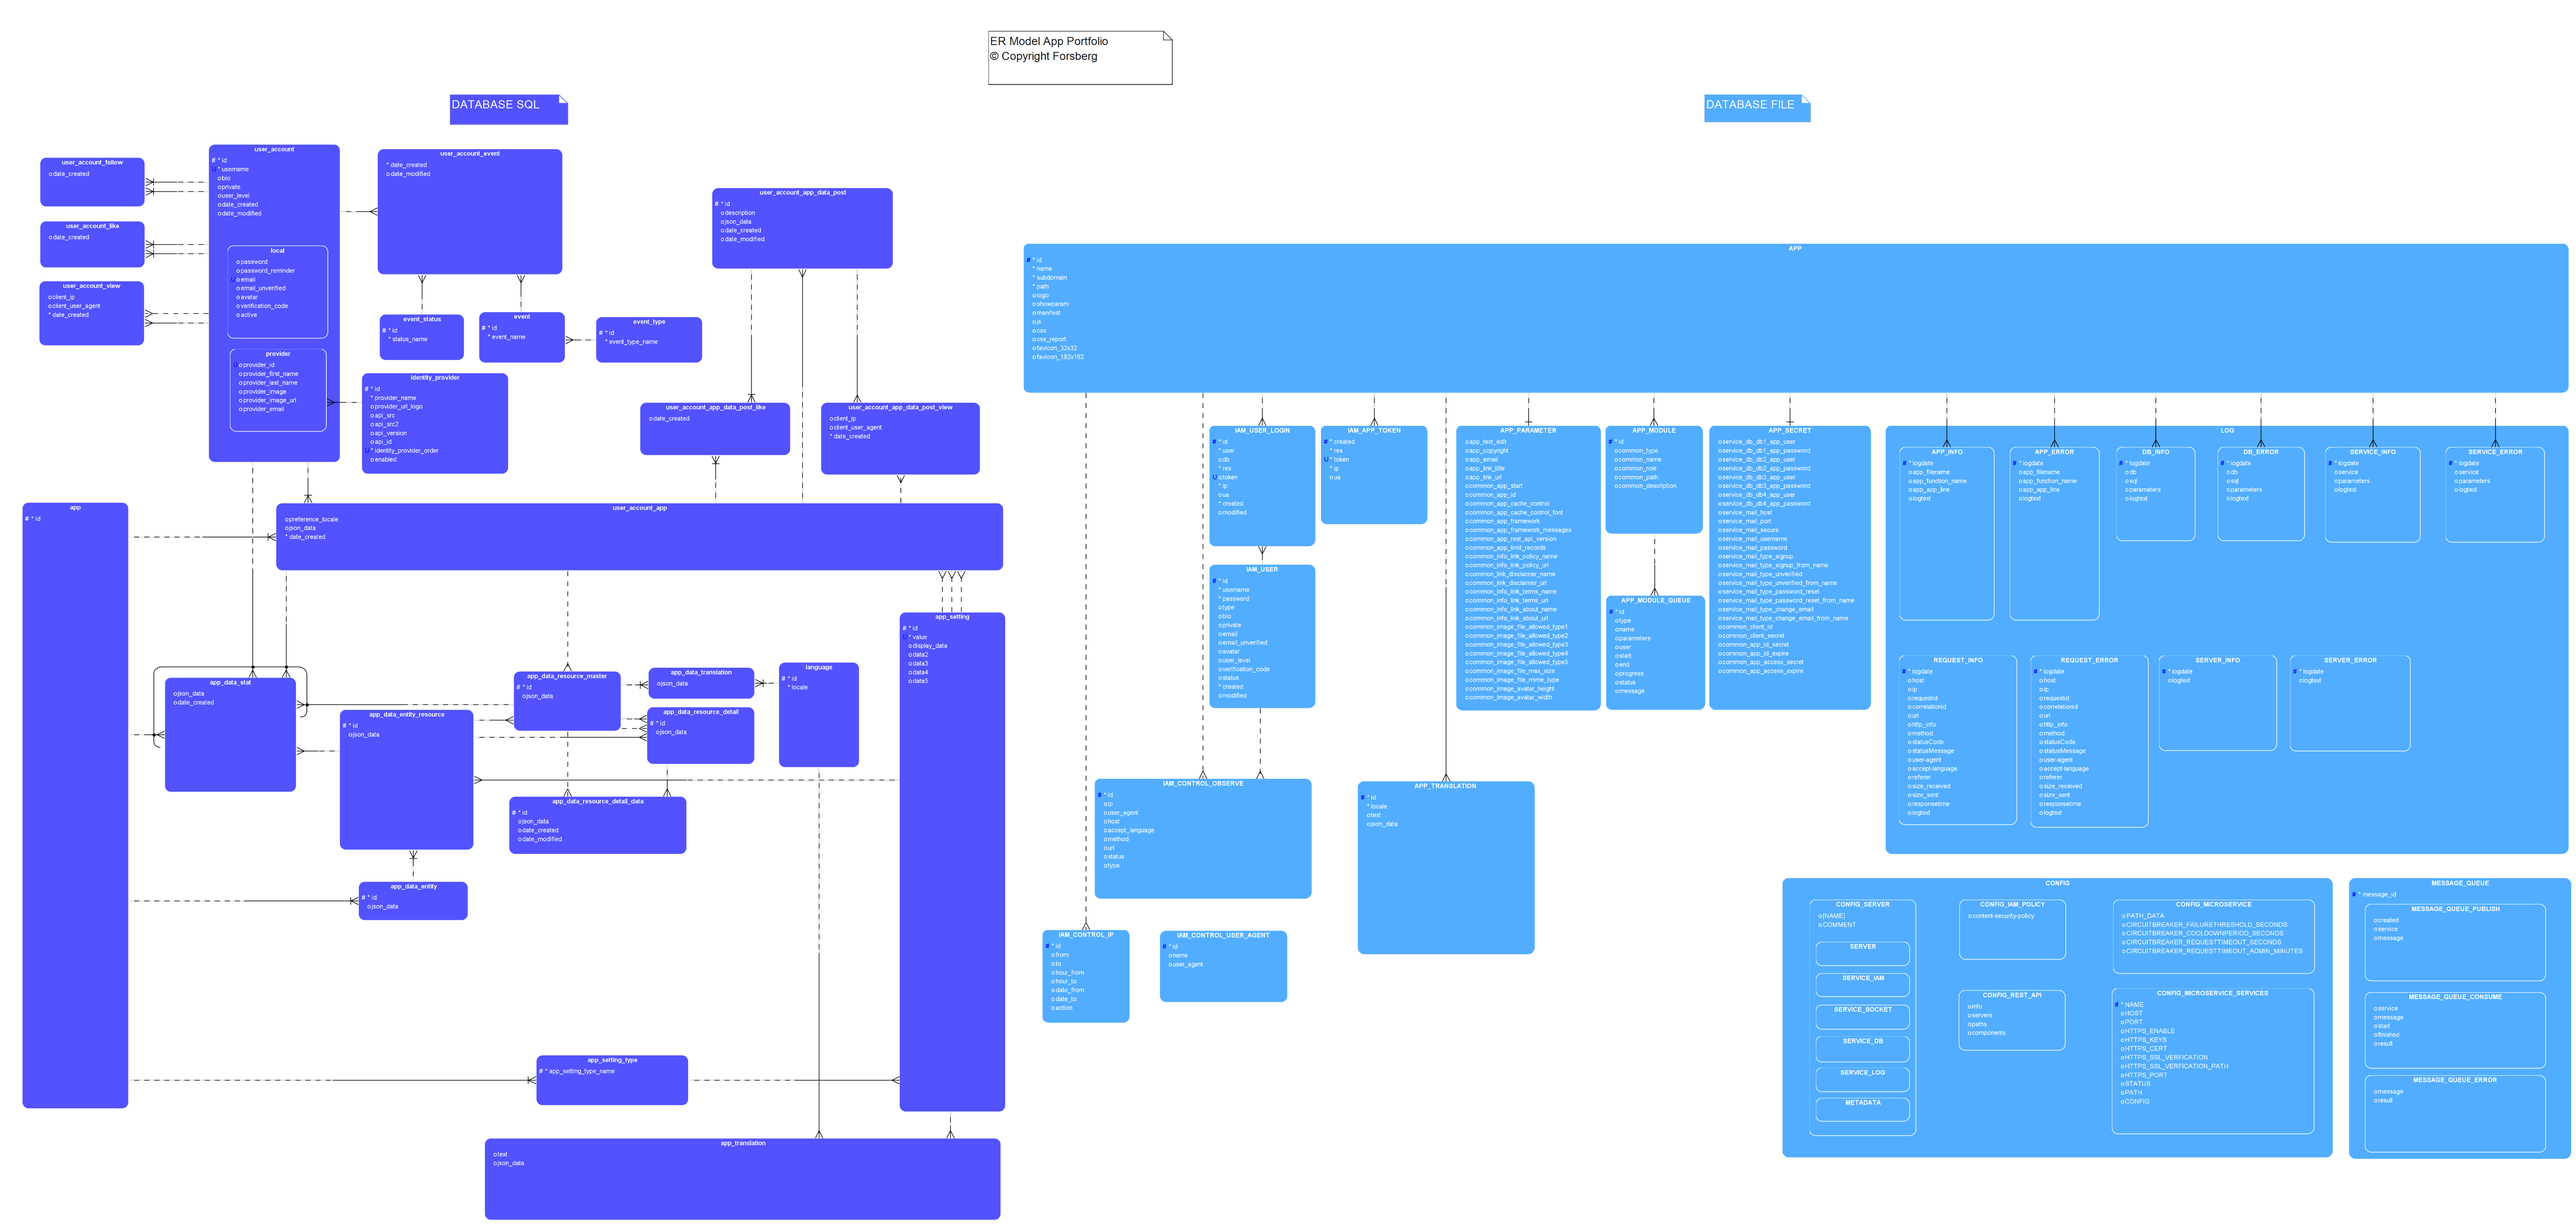
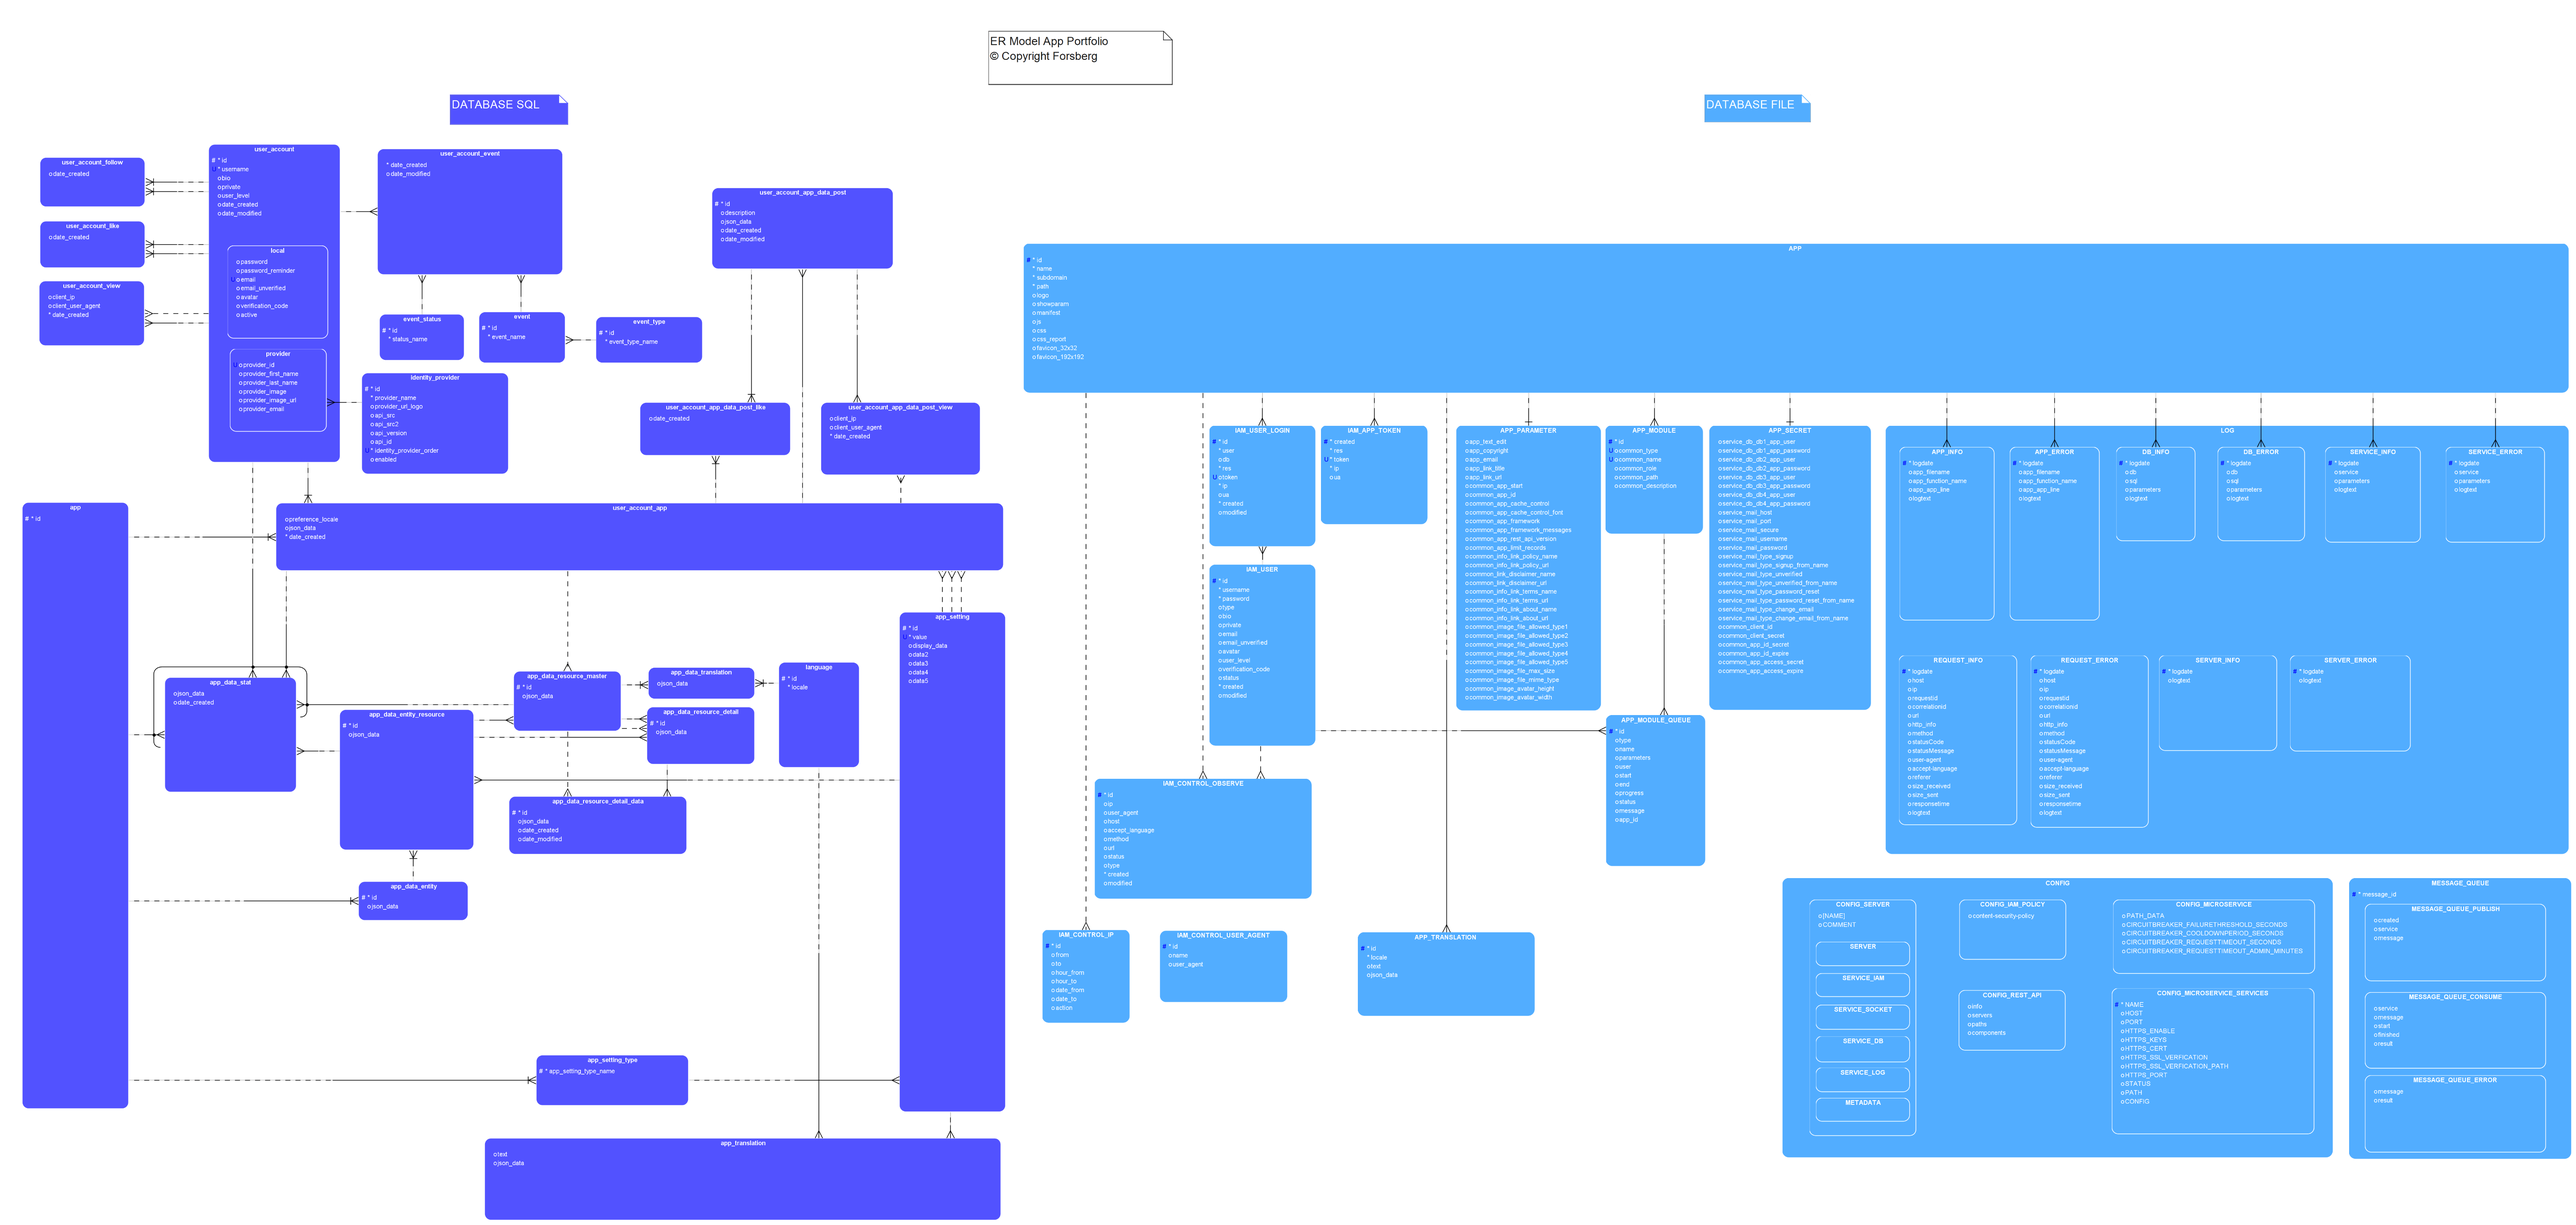
APB-1040 adds created and modified in iam_control_observe table and uses these in fileModelIamControlObserve.js, adds app_module_id (FK), iam_user_id(FK) and app_id(not FK) in app_module_queue table and in fileModelAppModuleQueue.js, adds APP_MODULE_UK with common_type and common_name as unique key 

Changed region(s): [[0.5296, 0.4673, 0.6854, 0.8411], [0.4673, 0.5607, 0.5296, 0.623]]

diff --git a/apps/common/src/common.js b/apps/common/src/common.js
@@ -6,6 +6,7 @@
  *          server_db_file_app_module,
  *          server_db_file_app_parameter_common,
  *          server_db_file_app_translation,
+ *          server_db_file_iam_user,
  *          server_config_apps_with_db_columns,
  *          server_apps_report_create_parameters,
  *          server_apps_app_service_parameters,
@@ -711,8 +712,8 @@ const commonAppReport = async parameters => {
  * @description Runs report in queue
  * @function
  * @memberof ROUTE_REST_API
- * @param {{app_id:Number,
- *          resource_id:string,
+ * @param {{app_id:number,
+ *          resource_id:number,
  *          authorization:string,
  *          data:{  ps:'A4', 
  *                  report_parameters:string},
@@ -732,40 +733,62 @@ const commonAppReportQueue = async parameters =>{
 
     /**@type{import('../../../server/iam.js')} */
     const { iamUtilDecode } = await import(`file://${process.cwd()}/server/iam.js`);
-                   
-    const result_post = await fileModelAppModuleQueue.post(parameters.app_id, 
-                                                    {
-                                                    type:'REPORT',
-                                                    name:parameters.resource_id,
-                                                    parameters:`ps:${parameters.data.ps}, report:${parameters.data.report_parameters}`,
-                                                    status:'PENDING',
-                                                    user:fileModelIamUser.get(  parameters.app_id, 
-                                                        serverUtilNumberValue(iamUtilDecode(parameters.authorization).id)).result[0].username
-                                                    });
-    if (result_post.result){
-        await fileModelAppModuleQueue.update(parameters.app_id, result_post.result.insertId, { start:new Date().toISOString(),
-                                                                progress:0, 
-                                                                status:'RUNNING'});
-        //report can update progress and only progress if necessary
-        //add queue id and parameters from parameter from origin
-        commonAppReport({   app_id:             parameters.app_id,
-                            resource_id:        parameters.resource_id,
-                            data:               {type:'REPORT', 
-                                                    ...{ps:parameters.data.ps}, 
-                                                    ...{queue_parameters:{appModuleQueueId:result_post.result.insertId,
-                                                                            ...Object.fromEntries(Array.from(new URLSearchParams(parameters.data.report_parameters)).map(param=>[param[0],param[1]]))}
-                                                        }
-                                                },
-                            user_agent:         parameters.user_agent,
-                            ip:                 parameters.ip,
-                            locale:             parameters.locale,
-                            endpoint:           parameters.endpoint});
-        //do not wait for submitted report
-        return {result:null, type:'JSON'};
+    /**@type{import('../../../server/iam.js')} */
+    const {iamUtilMessageNotAuthorized} = await import(`file://${process.cwd()}/server/iam.js`);
+
+    const report = fileModelAppModule.get({app_id:parameters.app_id, resource_id:parameters.resource_id, data:{data_app_id:null}});
+    if (report.result){
+        /**@type{server_db_file_iam_user} */
+        const user = fileModelIamUser.get(  parameters.app_id, serverUtilNumberValue(iamUtilDecode(parameters.authorization).id)).result[0];
+        const result_post = await fileModelAppModuleQueue.post(parameters.app_id, 
+                                                            {
+                                                            type:'REPORT',
+                                                            iam_user_id:user.id,
+                                                            app_module_id:parameters.resource_id,
+                                                            name:report.result[0].common_name,
+                                                            parameters:`ps:${parameters.data.ps}, report:${parameters.data.report_parameters}`,
+                                                            status:'PENDING',
+                                                            user:user.username
+                                                            });
+        if (result_post.result){
+            await fileModelAppModuleQueue.update(parameters.app_id, result_post.result.insertId, { start:new Date().toISOString(),
+                                                                    progress:0, 
+                                                                    status:'RUNNING'});
+            //report can update progress and only progress if necessary
+            //add queue id and parameters from parameter from origin
+            commonAppReport({   app_id:             parameters.app_id,
+                                resource_id:        report.result[0].common_name,
+                                data:               {type:'REPORT', 
+                                                        ...{ps:parameters.data.ps}, 
+                                                        ...{queue_parameters:{appModuleQueueId:result_post.result.insertId,
+                                                                                ...Object.fromEntries(Array.from(new URLSearchParams(parameters.data.report_parameters)).map(param=>[param[0],param[1]]))}
+                                                            }
+                                                    },
+                                user_agent:         parameters.user_agent,
+                                ip:                 parameters.ip,
+                                locale:             parameters.locale,
+                                endpoint:           parameters.endpoint});
+            //do not wait for submitted report
+            return {result:null, type:'JSON'};
+        }
+        else
+            return result_post;
     }
     else
-        return result_post;
-    
+        return fileModelLog.postAppE(   parameters.app_id, 
+                                        serverUtilAppFilename(import.meta.url), 
+                                        'commonAppReportQueue',
+                                        serverUtilAppLine(), 
+                                        `Module ${parameters.resource_id} not found`)
+                .then((result)=>{          
+                    return result.http?result:{http:404,
+                        code:'APP',
+                        text:iamUtilMessageNotAuthorized(),
+                        developerText:'commonAppReportQueue',
+                        moreInfo:null,
+                        type:'JSON'
+                    };
+                });
 };
 
 /**

diff --git a/server/db/fileModelAppModuleQueue.js b/server/db/fileModelAppModuleQueue.js
@@ -55,6 +55,8 @@ const getResult = async parameters => {
  * @function
  * @param {number} app_id 
  * @param {{type:'REPORT',
+ *          app_module_id:number,
+ *          iam_user_id:number,
  *          name:string,
  *          parameters:string,
  *          status:server_db_file_app_module_queue_status
@@ -67,11 +69,13 @@ const post = async (app_id, data) => {
         /**@type{server_db_file_app_module_queue} */
         const job =     {
                             id:Date.now(),
-                            app_id:app_id,                            
-                            type: data.type, 
-                            name:data.name,
+                            app_id:app_id,                      //copied from app
+                            app_module_id:data.app_module_id,   //FK app_module
+                            iam_user_id:data.iam_user_id,       //FK iam_user
+                            type: data.type,                    //copied from app_module
+                            name:data.name,                     //copied from app_module
                             parameters:data.parameters,
-                            user: data.user,
+                            user: data.user,                    //copied from iam_user
                             start:null,
                             end:null,
                             progress:null,
@@ -118,7 +122,7 @@ const postResult = async (app_id, id, result) =>{
  */
 const update = async (app_id, resource_id, data) => {
     const data_update = {};
-    //allowed parameters to update:
+    //allowed parameters to update (not alloewd to update user info or module info):
     if (data.start!=null)
         data_update.start = data.start;
     if (data.end!=null)

diff --git a/server/db/fileModelIamControlObserve.js b/server/db/fileModelIamControlObserve.js
@@ -51,7 +51,8 @@ const post = async (app_id, data) => {
                                                             method:data.method,
                                                             url:data.url,
                                                             status:data.status,
-                                                            type:data.type}).then((result)=>{
+                                                            type:data.type,
+                                                            created:new Date().toISOString()}).then((result)=>{
             if (result.affectedRows>0){
                 result.insertId = id;
                 return {result:result,type:'JSON'};
@@ -93,6 +94,7 @@ const update = async (app_id, resource_id, data) => {
             if (data.url!=null)
                 data_update.url = data.url;
             data_update.status = data.status;
+            data_update.modified = new Date().toISOString();
             //id and type not allowed to update
             if (Object.entries(data_update).length>0)
                 return fileDBUpdate(app_id, 'IAM_CONTROL_OBSERVE', resource_id, null, data_update).then((result)=>{

diff --git a/apps/admin/public/component/menu_report.js b/apps/admin/public/component/menu_report.js
@@ -65,8 +65,8 @@ const component = async props => {
         const parameters = Array.from(props.methods.COMMON_DOCUMENT.querySelectorAll('.menu_report_metadata_row')).map((/**@type{HTMLElement}*/element) => {
             return element.getAttribute('data-parameter') + '=' + element.querySelector('.menu_report_metadata_col2')?.textContent;
         }).join('&');
-        const report = JSON.parse(props.methods.COMMON_DOCUMENT.querySelector('#menu_report_select_report .common_select_dropdown_value').getAttribute('data-value')).common_name;
-        await props.methods.commonFFB({path:`/app-module-report-queue/${report}`, body:{ps:'A4', report_parameters:parameters},method:'POST', authorization_type:'ADMIN', spinner_id:'menu_report_run'});
+        const report_id = JSON.parse(props.methods.COMMON_DOCUMENT.querySelector('#menu_report_select_report .common_select_dropdown_value').getAttribute('data-value')).id;
+        await props.methods.commonFFB({path:`/app-module-report-queue/${report_id}`, body:{ps:'A4', report_parameters:parameters},method:'POST', authorization_type:'ADMIN', spinner_id:'menu_report_run'});
         reportQueueUpdate();        
     };
     /**

diff --git a/server/db/fileModelConfig.js b/server/db/fileModelConfig.js
@@ -198,7 +198,7 @@ const configInit = async () => {
  * @description Config get saved
  * @function
  * @memberof ROUTE_REST_API
- * @param {{resource_id:server_db_file_db_name,
+ * @param {{resource_id:server_db_file_db_name_config,
  *          data:{  config_group?:string|null,
  *                  parameter?:string|null,
  *                  saved?:string|null}|null}} parameters
@@ -223,7 +223,7 @@ const getFile = async parameters => {
  * @description Config save
  * @function
  * @memberof ROUTE_REST_API
- * @param {{resource_id:server_db_file_db_name,
+ * @param {{resource_id:server_db_file_db_name_config,
  *          data:{  config: server_db_file_config_server|
  *                          server_db_file_app[]|
  *                          server_db_file_config_iam_policy|

diff --git a/server/types.js b/server/types.js
@@ -595,11 +595,13 @@
 /**
  * @description DB FILE server_db_file_app_module_queue
  * @typedef {{  id:number,
- *              app_id: number,
- *              type:'REPORT',
- *              name: string,
+ *              app_id: number,         //copied from app
+ *              iam_user_id:number,
+ *              app_module_id:number,
+ *              type:'REPORT',          //copied from app_module
+ *              name: string,           //copied from app_module
  *              parameters:string,
- *              user:string,
+ *              user:string,            //copied from iam_user
  *              start:string|null,
  *              end:string|null,
  *              progress:number|null,
